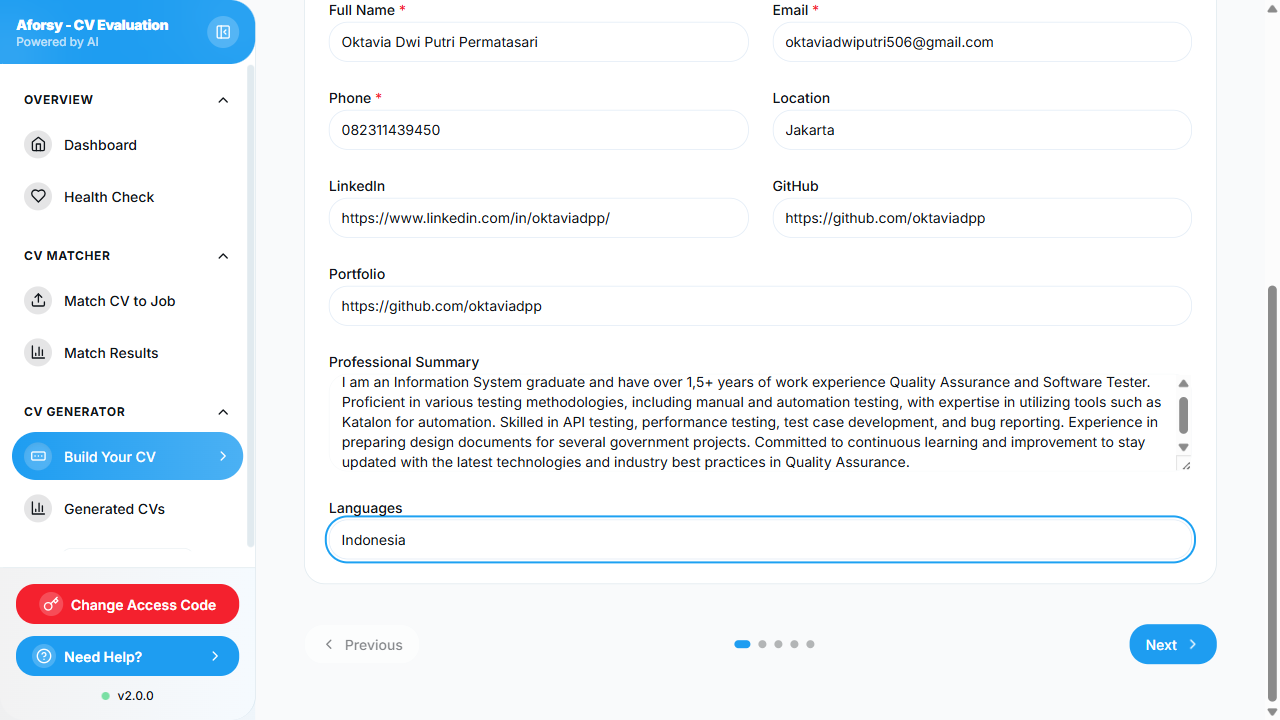
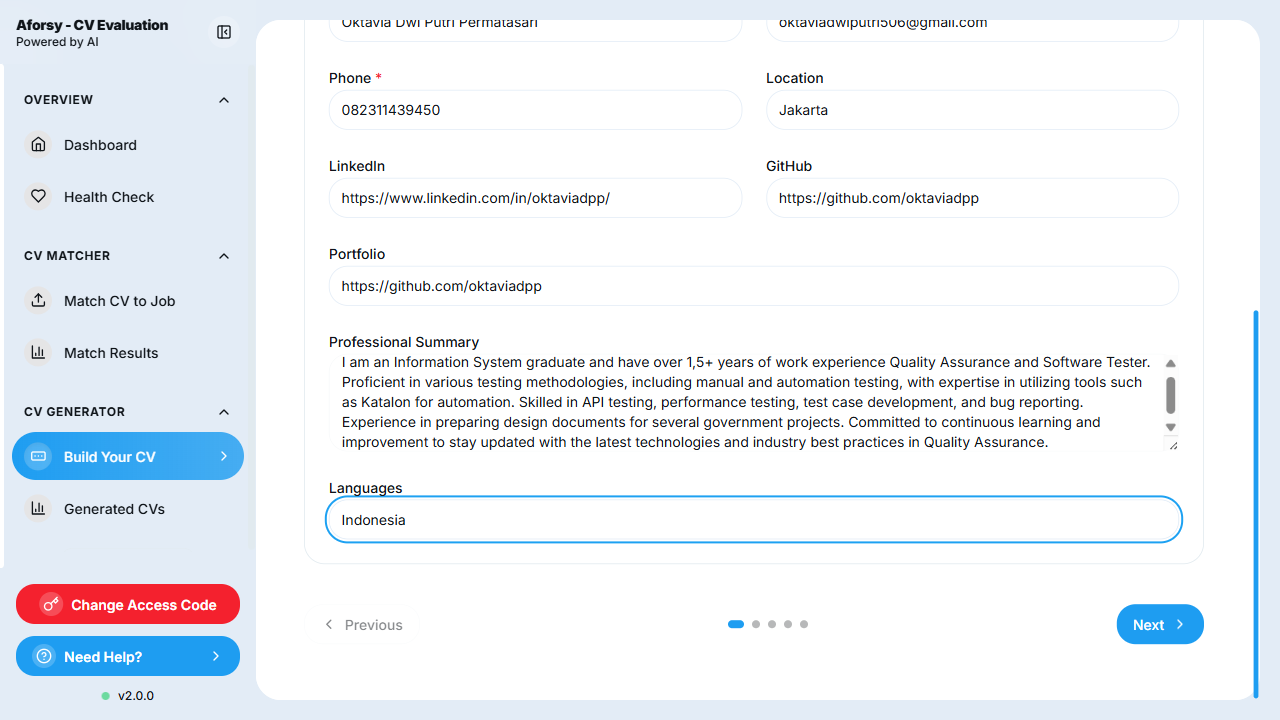
add: work experience

diff --git a/tests/pages/CvGenerator.js b/tests/pages/CvGenerator.js
@@ -18,11 +18,17 @@ export class CvGenerator {
         this.languages = page.locator("#languages");
         this.buttonMenuBuildYourCV = page.getByRole("link", {name:"Build Your CV"});
 
-        //Experience
-        
+        //Work Experience
+        this.cardExperience = page.locator("div.grid.mb-4");
+        this.buttonAdd = page.getByRole('button', { name: 'Add', exact: true });
+        this.jobTitle = page.locator('input[name$=".title"]');
+        this.company = page.locator('input[name$=".company"]');
+        this.workExperienceLocation = page.locator('input[name$=".location"]');
+        this.duration = page.locator('input[name$=".duration"]');
+        this.description = page.locator('textarea[name$=".description"]');        
     }
 
-    async BuildYourCV(){
+    async PersonalInfo(){
         await this.globals.goto();
         await this.buttonMenuBuildYourCV.click();
         await this.name.fill("Oktavia Dwi Putri Permatasari");
@@ -36,6 +42,58 @@ export class CvGenerator {
         await this.languages.fill("Indonesia");
         await this.globals.takeScreenshot('CVGenerator-personal-info');
         await this.buttonNext.click();
+    }
 
+    async WorkExperience(){
+        const experience = [
+            {
+                title : 'Quality Assurance Analyst',
+                company : "PT. METROCOM JADDI TECHNOLOGY",
+                workExperienceLocation : "JAKARTA",
+                duration : "Oct 2024 – Present",
+                description : "Developed and executed automated API test scenarios using Postman, Newman, and JMeter",
+            },
+            {
+                title : 'QUALITY ASSURANCE - FREELANCE',
+                company : "PT. FINNET INDONESIA",
+                workExperienceLocation : "JAKARTA",
+                duration : "Jan 2024 – Jan 2026",
+                description : "Created and executed automated test cases for functional Web UI testing using Katalon Studio and Newman",
+            },
+            {
+                title : 'SOFTWARE TESTER',
+                company : "PT. KNITTO TEKSTIL INDONESIA",
+                workExperienceLocation : "BANDUNG",
+                duration : "Jan 2024 – Oct 2024",
+                description : "Understand the flowchart, design UI, and Business Requirements Document (BRD) prepared by the system analyst.",
+            },
+            {
+                title : 'QUALITY ASSURANCE AND ANALYST',
+                company : "PROFILE IMAGE STUDIO",
+                workExperienceLocation : "MALANG",
+                duration : "Oct 2022 – Dec 2023",
+                description : "Design 3 documents requirement such as PRD, UML Diagram, and Flowchart for 2 government project Batu City and Public Worksand Water Resources Department East Java",
+            },
+        ]
+
+        console.log ("experience length",experience.length);
+
+        for(let i=0; i < experience.length; i++){
+            if(i >= await this.cardExperience.count()){
+                console.log ("cardExperience length", await this.cardExperience.count());
+                await this.buttonAdd.click();
+                await this.cardExperience.nth(i).waitFor();
+            }
+
+            const data = experience[i];
+
+            await this.jobTitle.nth(i).fill(data.title);
+            await this.company.nth(i).fill(data.company);
+            await this.workExperienceLocation.nth(i).fill(data.workExperienceLocation);
+            await this.duration.nth(i).fill(data.duration);
+            await this.description.nth(i).fill(data.description);
+        }
+        await this.globals.takeScreenshot('CVGenerator-work-experience');
+        await this.buttonNext.click();
     }
 };

diff --git a/tests/web-api-skip-generate-code-tutorial.spec.js b/tests/web-api-skip-generate-code-tutorial.spec.js
@@ -14,6 +14,7 @@ test('01-generate cv without generate code and tutorial successfully', async ({p
     const cvGenerator = new CvGenerator(page);
     
     //Generate CV Process
-    await cvGenerator.BuildYourCV();
+    await cvGenerator.PersonalInfo();
+    await cvGenerator.WorkExperience();
 
 });
